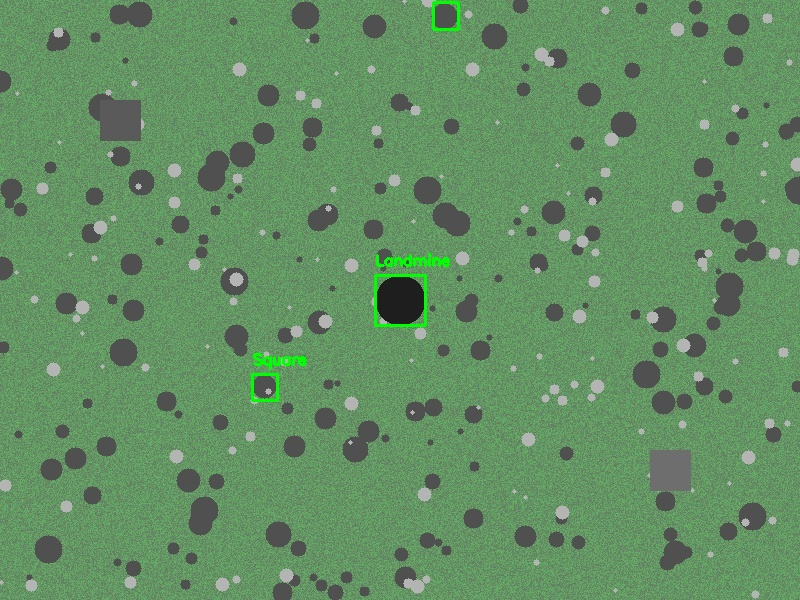
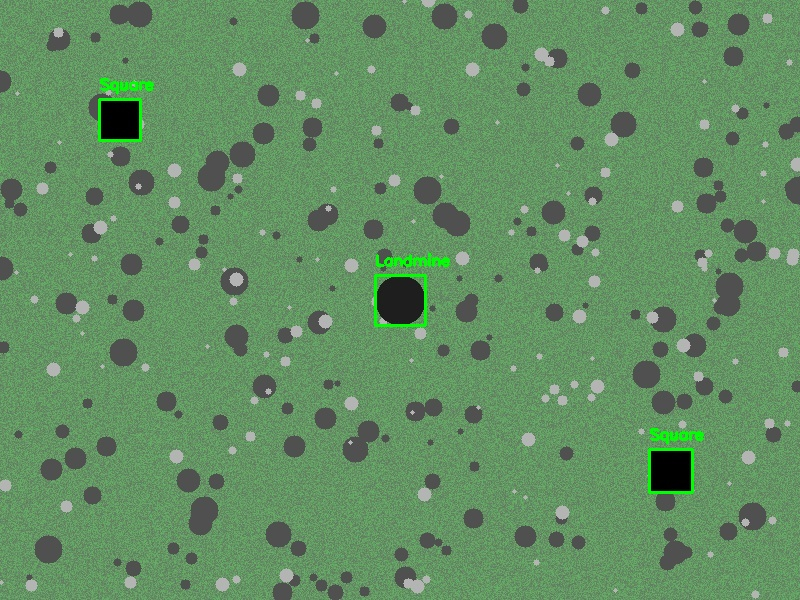
working test

diff --git a/ImageDetection/object_detector.py b/ImageDetection/object_detector.py
@@ -167,36 +167,143 @@ def detect_squares(blurred_image):
     Returns:
         list: List of detected squares as (x, y, width, height) tuples
     """
+    # Try multiple approaches for square detection
+
+    # Approach 1: Contour-based detection (current method)
+    squares_contour = detect_squares_contour(blurred_image)
+
+    # Approach 2: Morphological operations for more robust detection
+    squares_morph = detect_squares_morphological(blurred_image)
+
+    # Combine results and remove duplicates
+    all_squares = squares_contour + squares_morph
+    detected_squares = remove_duplicate_squares(all_squares)
+
+    return detected_squares
+
+def detect_squares_contour(blurred_image):
+    """Contour-based square detection"""
     # Apply Canny edge detection
     edges = cv2.Canny(blurred_image, 50, 150)
 
     # Dilate edges to connect nearby edges
     kernel = np.ones((3, 3), np.uint8)
-    dilated = cv2.dilate(edges, kernel, iterations=2)
+    dilated = cv2.dilate(edges, kernel, iterations=1)
 
     # Find contours
     contours, _ = cv2.findContours(dilated, cv2.RETR_EXTERNAL, cv2.CHAIN_APPROX_SIMPLE)
 
     detected_squares = []
     for contour in contours:
+        # Skip if contour is too circular (likely a landmine)
+        if is_too_circular(contour):
+            continue
+
         # Approximate the contour
         peri = cv2.arcLength(contour, True)
-        approx = cv2.approxPolyDP(contour, 0.04 * peri, True)
+        approx = cv2.approxPolyDP(contour, 0.03 * peri, True)
 
         # Check if it's a quadrilateral
         if len(approx) == 4:
-            # Check if it's roughly a square (aspect ratio close to 1)
             x, y, w, h = cv2.boundingRect(approx)
             aspect_ratio = float(w) / h
 
-            # More lenient aspect ratio check
-            if 0.7 <= aspect_ratio <= 1.3:
-                # Check minimum size (avoid noise)
+            # Balanced aspect ratio check
+            if 0.75 <= aspect_ratio <= 1.25:
                 area = cv2.contourArea(contour)
-                if area > 500:  # Minimum area threshold
+                if 300 <= area <= 3000:  # Reasonable size range
+                    rect_area = w * h
+                    fill_ratio = area / rect_area
+                    if fill_ratio > 0.6:
+                        detected_squares.append((x, y, w, h))
+
+    return detected_squares
+
+def detect_squares_morphological(blurred_image):
+    """Morphological operations based square detection"""
+    # Threshold the image to get dark regions
+    _, thresh = cv2.threshold(blurred_image, 50, 255, cv2.THRESH_BINARY_INV)
+
+    # Morphological operations to clean up noise
+    kernel = cv2.getStructuringElement(cv2.MORPH_RECT, (3, 3))
+    cleaned = cv2.morphologyEx(thresh, cv2.MORPH_OPEN, kernel, iterations=1)
+    cleaned = cv2.morphologyEx(cleaned, cv2.MORPH_CLOSE, kernel, iterations=1)
+
+    # Find contours on the cleaned binary image
+    contours, _ = cv2.findContours(cleaned, cv2.RETR_EXTERNAL, cv2.CHAIN_APPROX_SIMPLE)
+
+    detected_squares = []
+    for contour in contours:
+        # Skip if contour is too circular (likely a landmine)
+        if is_too_circular(contour):
+            continue
+
+        # Get bounding rectangle
+        x, y, w, h = cv2.boundingRect(contour)
+        aspect_ratio = float(w) / h
+
+        # Check for square-like shapes
+        if 0.8 <= aspect_ratio <= 1.2:  # Square aspect ratio
+            area = cv2.contourArea(contour)
+            if 400 <= area <= 2500:  # Size constraints
+                # Additional check: ensure it's reasonably filled
+                rect_area = w * h
+                fill_ratio = area / rect_area
+                if fill_ratio > 0.7:
                     detected_squares.append((x, y, w, h))
 
     return detected_squares
+
+def is_too_circular(contour, circularity_threshold=0.85):
+    """
+    Check if a contour is too circular to be considered a square.
+
+    Args:
+        contour: The contour to check
+        circularity_threshold: Threshold above which shape is considered circular
+
+    Returns:
+        bool: True if the contour is too circular
+    """
+    area = cv2.contourArea(contour)
+    if area == 0:
+        return False
+
+    # Calculate perimeter
+    perimeter = cv2.arcLength(contour, True)
+
+    # Calculate circularity: 4π*area / perimeter²
+    # Perfect circle has circularity = 1, squares have lower values
+    circularity = 4 * np.pi * area / (perimeter * perimeter)
+
+    return circularity > circularity_threshold
+
+def remove_duplicate_squares(squares, threshold=20):
+    """Remove duplicate squares that are close to each other"""
+    if not squares:
+        return squares
+
+    # Sort by x coordinate
+    squares_sorted = sorted(squares, key=lambda s: s[0])
+    filtered_squares = []
+
+    for square in squares_sorted:
+        x, y, w, h = square
+        is_duplicate = False
+
+        # Check against already accepted squares
+        for accepted in filtered_squares:
+            ax, ay, aw, ah = accepted
+            # Check if centers are close
+            center_dist = ((x + w/2 - ax - aw/2)**2 + (y + h/2 - ay - ah/2)**2)**0.5
+            if center_dist < threshold:
+                is_duplicate = True
+                break
+
+        if not is_duplicate:
+            filtered_squares.append(square)
+
+    return filtered_squares
 
 def draw_detections(image, circles, squares):
     """

diff --git a/ImageDetection/test_detection.py b/ImageDetection/test_detection.py
@@ -56,9 +56,9 @@ def create_challenging_test_image():
     # Add one real landmine in the center - make it more distinct
     cv2.circle(image, (400, 300), 25, (30, 30, 30), -1)  # Much darker landmine for better contrast
 
-    # Add some square objects
-    cv2.rectangle(image, (100, 100), (140, 140), (90, 90, 90), -1)  # Square 1
-    cv2.rectangle(image, (650, 450), (690, 490), (110, 110, 110), -1)  # Square 2
+    # Add some square objects - make them very distinct
+    cv2.rectangle(image, (100, 100), (140, 140), (0, 0, 0), -1)  # Square 1 - black
+    cv2.rectangle(image, (650, 450), (690, 490), (0, 0, 0), -1)  # Square 2 - black
 
     return image
 
@@ -108,8 +108,13 @@ def test_challenging_detection():
     print("\nChallenging Test Results:")
     print(f"Expected landmines: 1")
     print(f"Detected landmines: {len(circles)}")
+    for i, (x, y, r) in enumerate(circles, 1):
+        print(f"  Landmine {i}: Center=({x},{y}), Radius={r} pixels")
+
     print(f"Expected squares: 2")
     print(f"Detected squares: {len(squares)}")
+    for i, (x, y, w, h) in enumerate(squares, 1):
+        print(f"  Square {i}: Position=({x},{y}), Size={w}x{h} pixels")
 
     if len(circles) <= 5 and len(squares) >= 1:  # Allow some false positives but not 43+
         print("✅ Challenging test passed! Reasonable number of detections.")

diff --git a/ImageDetection/gui_app.py b/ImageDetection/gui_app.py
@@ -101,7 +101,7 @@ class ObjectDetectionGUI:
 
         # Results frame
         results_frame = ttk.LabelFrame(control_frame, text="Results", padding="5")
-        results_frame.grid(row=4, column=0, sticky=(tk.W, tk.E))
+        results_frame.grid(row=5, column=0, sticky=(tk.W, tk.E))
 
         self.results_text = tk.Text(results_frame, height=8, width=25, wrap=tk.WORD)
         scrollbar = ttk.Scrollbar(results_frame, orient=tk.VERTICAL, command=self.results_text.yview)
